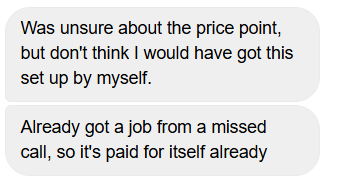
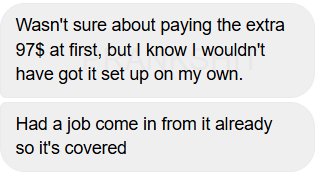
Tighten OTO hero copy and update proof image

diff --git a/oto1.html b/oto1.html
@@ -6,7 +6,7 @@
     <title>1-to-1 Setup Help</title>
     <meta
       name="description"
-      content="Your order is in. Add optional 1-to-1 WhatsApp or Messenger help to get the core missed-call setup connected, checked, and live faster."
+      content="Don't get stuck setting this up. You've got the system. This helps you actually get it live with direct 1-to-1 help."
     />
     <link rel="preconnect" href="https://fonts.googleapis.com" />
     <link rel="preconnect" href="https://fonts.gstatic.com" crossorigin />
@@ -53,15 +53,20 @@
           <div class="container hero__grid">
             <div class="hero__content">
               <p class="eyebrow">Your order is in</p>
-              <h1>Get 1-to-1 help getting it live.</h1>
+              <h1>Don&apos;t get stuck setting this up.</h1>
               <p class="hero__lede">
-                The full system is already yours. This optional upgrade gives you direct WhatsApp
-                or Messenger help while you set it up, so you can get the core missed-call flow
-                working without doing it alone.
+                You&apos;ve got the system. This helps you actually get it live.
               </p>
               <p class="hero__format">
-                Send screenshots, ask questions, clear blockers fast, and keep moving until the
-                core setup is connected, checked, and tested.
+                Message me while you&apos;re setting it up. Send screenshots, ask questions, and clear
+                anything that slows you down.
+              </p>
+              <p class="hero__format">
+                So instead of getting stuck or leaving this half done, you actually get it
+                connected, working, and tested.
+              </p>
+              <p class="hero__cost-anchor">
+                Most people don&apos;t struggle understanding this - they struggle finishing it.
               </p>
 
               <div class="hero__actions">
@@ -72,9 +77,9 @@
                   data-track-event="InitiateCheckout"
                   data-require-checkout="true"
                   href="#"
-                  >Yes, add 1-to-1 Setup Help</a
+                  >Yes, help me get this live for $97</a
                 >
-                <a class="hero__inline-link" href="downsell.html">No thanks, show me the DIY option</a>
+                <a class="hero__inline-link" href="downsell.html">I&apos;ll set it up myself</a>
               </div>
 
               <div class="hero__testimonial">
@@ -124,7 +129,7 @@
               <div class="offer-card__checkout">
                 <p class="offer-card__price-label">One-time post-purchase upgrade</p>
                 <p class="offer-card__price">$97</p>
-                <p class="offer-card__meta">Cheaper than wasting hours stuck or leaving the setup half-done.</p>
+                <p class="offer-card__meta">Most people don&apos;t struggle understanding this - they struggle finishing it.</p>
                 <a
                   class="btn btn--primary btn--full"
                   data-offer-key="oto1"
@@ -132,7 +137,7 @@
                   data-track-event="InitiateCheckout"
                   data-require-checkout="true"
                   href="#"
-                  >Yes, add 1-to-1 Setup Help</a
+                  >Yes, help me get this live for $97</a
                 >
                 <div class="offer-card__proof">
                   <img
@@ -142,7 +147,7 @@
                   />
                 </div>
                 <p class="offer-card__note">The full system is already included in your purchase. This is optional hands-on help, not hidden core content.</p>
-                <a class="muted-link" href="downsell.html">No thanks, show me the DIY option</a>
+                <a class="muted-link" href="downsell.html">I&apos;ll set it up myself</a>
               </div>
             </div>
           </div>
